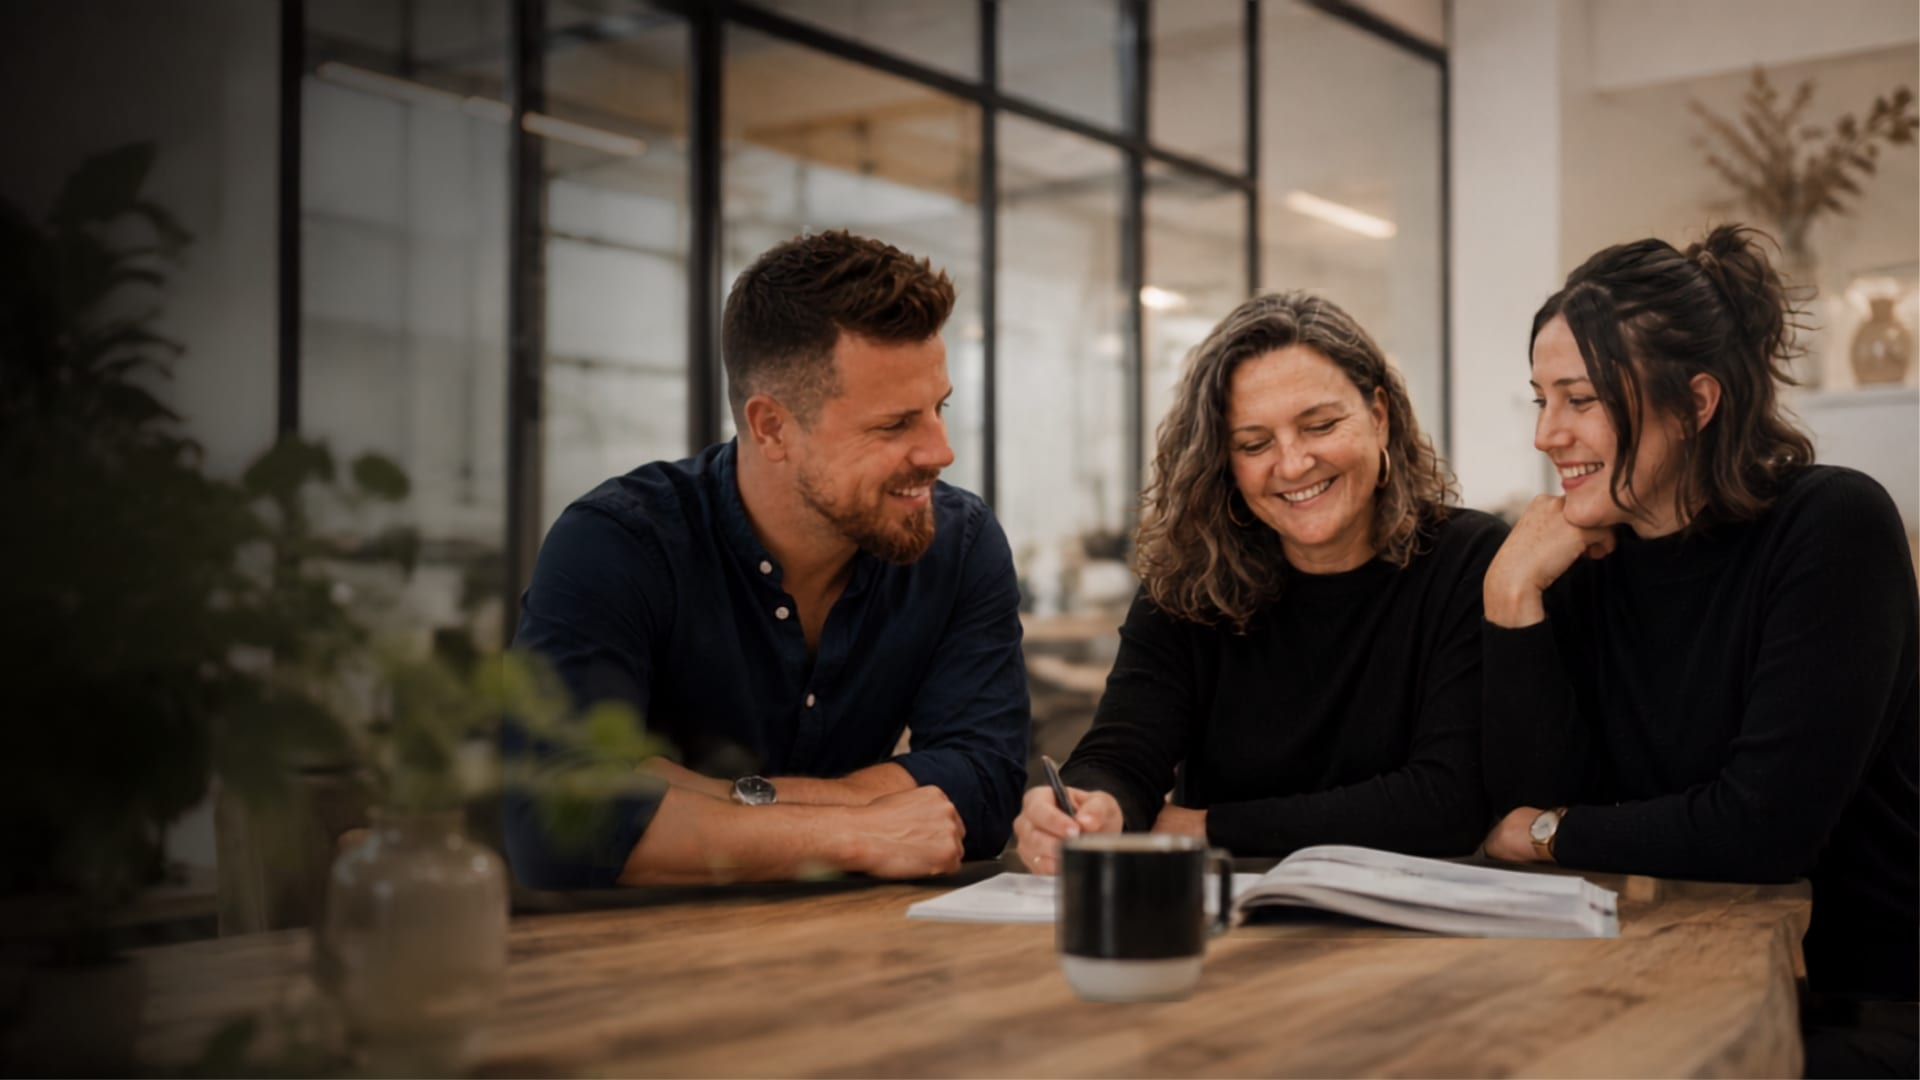
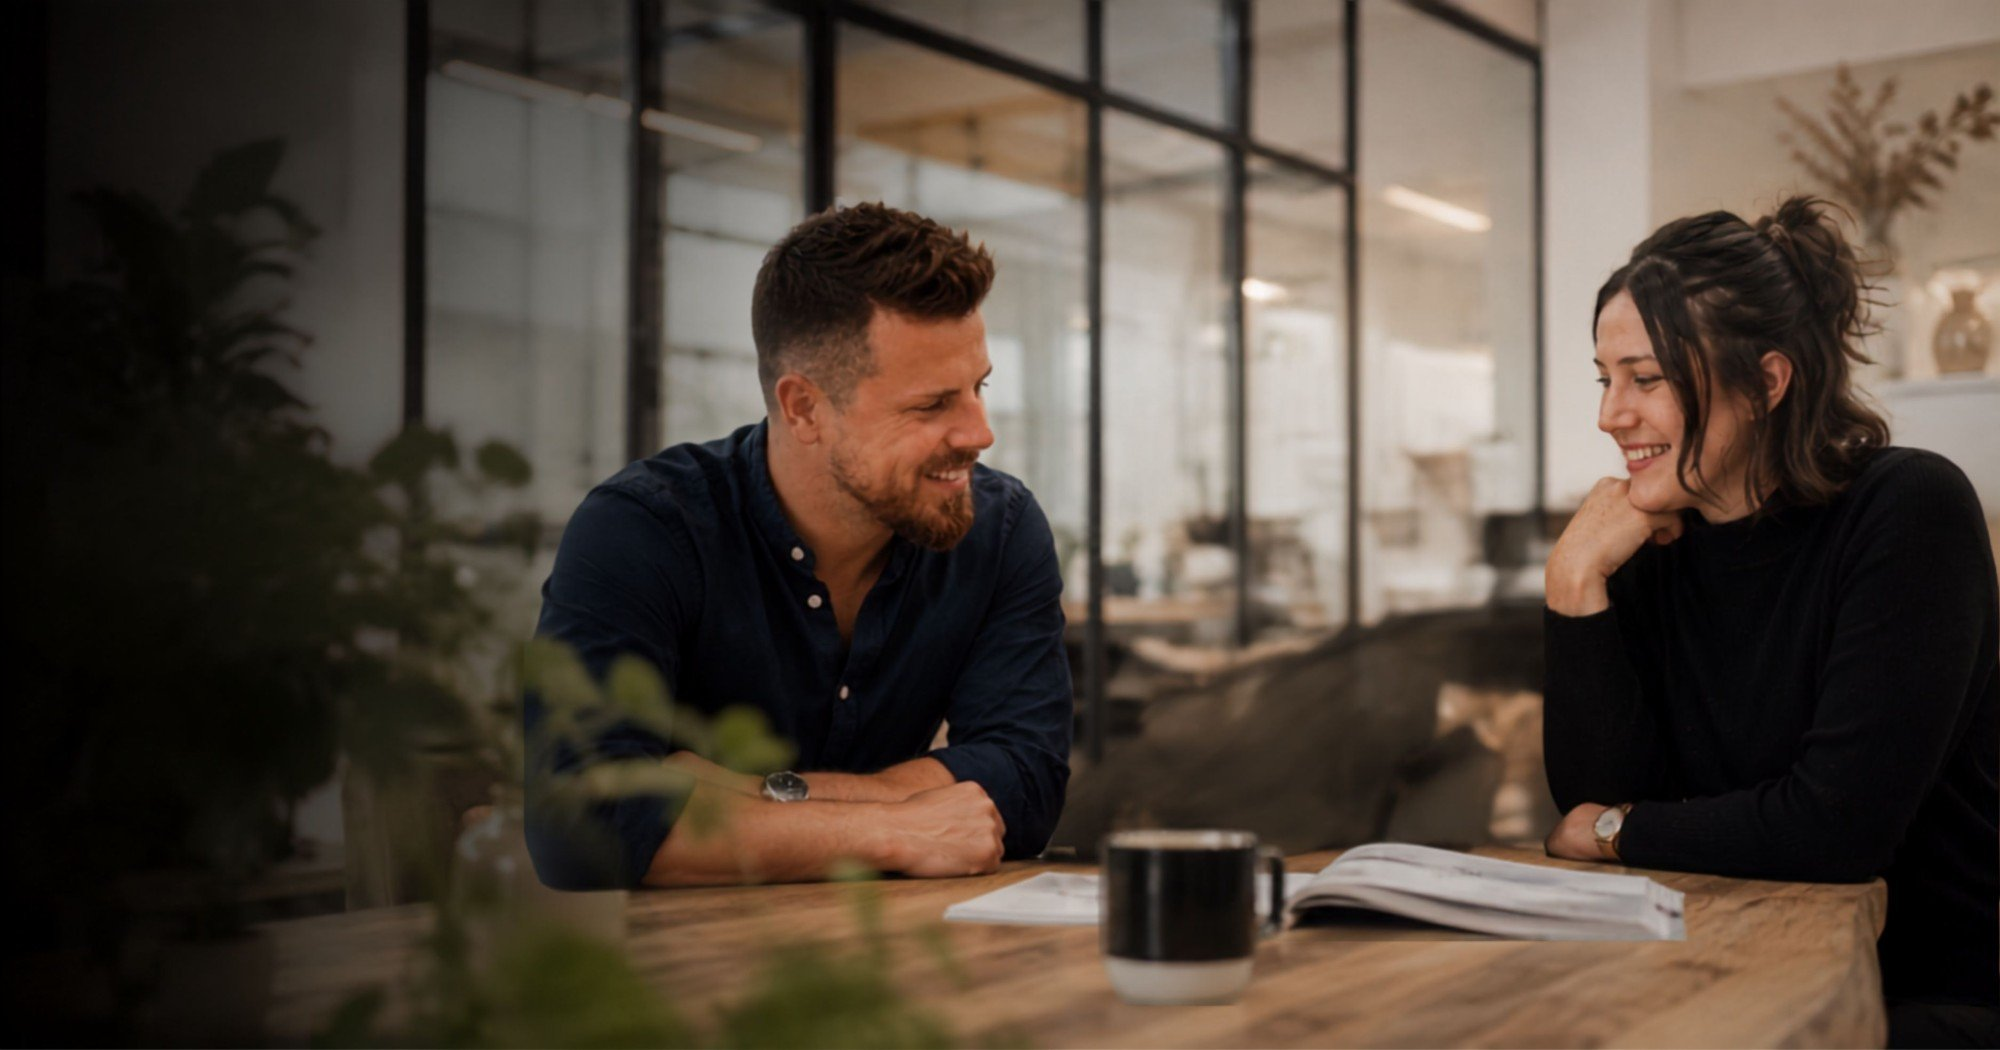
feat(equipo): Sofía deja la web — nueva foto de la home sin ella, fuera de quiénes-somos y landings, sus inmuebles pasan a Ariadna

diff --git a/src/lib/i18n.ts b/src/lib/i18n.ts
@@ -204,7 +204,6 @@ const dict = {
     aboutRoleManager: "Responsable de equipo",
     aboutRoleFounder: "Fundador · Dirección & Marketing",
     aboutDesc1: "Lleva años acompañando a personas en uno de los momentos más importantes de su vida. Se nota en cómo escucha, en cómo gestiona la incertidumbre y en que nunca pierde de vista que detrás de cada operación hay alguien tomando una decisión muy importante.",
-    aboutDesc2: "Sofía tiene una capacidad natural para hacer que la gente se sienta cómoda. Atenta, paciente y muy presente en cada momento del proceso. De las que recuerdan los detalles importantes y están ahí cuando surgen las dudas — que siempre surgen.",
     aboutDesc3: "Fundó The Vila Home con una idea clara: que este trabajo se puede hacer poniendo a las personas primero. Hoy lleva la estrategia y el marketing de la agencia con la misma convicción de siempre — que cuando el proceso está bien planteado y bien acompañado, todo lo demás llega.",
     aboutDesc4: "Toni es el más joven del equipo, pero cuenta con una amplia experiencia en el sector. Ambicioso, implicado y con las ideas claras, afronta cada operación con criterio y seguridad. Le gusta entender cada situación, hablar claro y estar presente durante todo el proceso, porque sabe que la confianza se gana con hechos y un trabajo bien hecho.",
     aboutCTATitle: "¿Hablamos?",
@@ -510,7 +509,6 @@ const dict = {
     aboutRoleManager: "Responsable d'equip",
     aboutRoleFounder: "Fundador · Direcció & Màrqueting",
     aboutDesc1: "L'Ariadna és proximitat, calma i experiència. De les persones que escolten abans de parlar i que entenen que comprar o vendre un habitatge no hauria de sentir-se com una carrera d'obstacles. Li agrada acompanyar sense pressionar, explicar les coses clares i fer que cada client se senti segur durant el procés. Creu que una operació immobiliària es construeix amb honestedat, criteri i confiança.",
-    aboutDesc2: "La Sofía transmet calma, proximitat i aquella dolçor que fa que tot se senti una mica més fàcil. És de les persones que escolten amb atenció, acompanyen sense presses i entenen que comprar o vendre un habitatge també pot venir acompanyat de dubtes, nervis i emocions. Li agrada ser present, explicar les coses amb claredat i fer que qui té davant se senti còmode, acompanyat i en confiança durant tot el procés.",
     aboutDesc3: "En Xavi entén el sector immobiliari des d'una idea senzilla: fer les coses bé i dir les coses clares. Està darrere de l'estratègia, el màrqueting i gran part de la presentació de cada habitatge, convençut que vendre una casa no hauria de basar-se en promeses inflades, sinó en criteri, visibilitat i feina real. Perfeccionista amb els detalls i apassionat per com es presenta un immoble, creu que una bona experiència immobiliària comença molt abans d'una visita: en la confiança, l'honestedat i sentir-se ben acompanyat.",
     aboutDesc4: "En Toni és el més jove de l'equip, però compta amb una àmplia experiència en el sector. Ambiciós, implicat i amb les idees clares, afronta cada operació amb criteri i seguretat. Li agrada entendre cada situació, parlar clar i estar present durant tot el procés, perquè sap que la confiança es guanya amb fets i una feina ben feta.",
     aboutCTATitle: "Parlem?",
@@ -813,7 +811,6 @@ const dict = {
     aboutRoleManager: "Team Lead",
     aboutRoleFounder: "Founder · Management & Marketing",
     aboutDesc1: "Ariadna is warmth, calm, and experience. The kind of person who listens before speaking and understands that buying or selling a home shouldn't feel like an obstacle course. She likes to guide without pressure, explain things clearly, and make every client feel safe throughout the process. She believes a real estate transaction is built on honesty, judgement, and trust.",
-    aboutDesc2: "Sofía conveys calm, warmth, and a gentleness that makes everything feel a little easier. She's the kind of person who listens attentively, accompanies without rushing, and understands that buying or selling a home can also come with doubts, nerves, and emotions. She likes to be present, explain things clearly, and make the person in front of her feel comfortable, accompanied, and trusted throughout the whole process.",
     aboutDesc3: "Xavi understands the real estate sector from a simple idea: do things well and say things clearly. He's behind the strategy, the marketing, and much of the presentation of every property, convinced that selling a house shouldn't be based on inflated promises, but on judgement, visibility, and real work. A perfectionist with details and passionate about how a property is presented, he believes a good real estate experience starts long before a viewing: in trust, honesty, and feeling well accompanied.",
     aboutDesc4: "Toni is the youngest member of the team, but he brings broad experience in the sector. Ambitious, committed, and clear-headed, he approaches every transaction with judgement and confidence. He likes to understand each situation, speak plainly, and stay present throughout the process, because he knows trust is earned through actions and work well done.",
     aboutCTATitle: "Shall we talk?",
@@ -1116,7 +1113,6 @@ const dict = {
     aboutRoleManager: "Responsable d'équipe",
     aboutRoleFounder: "Fondateur · Direction & Marketing",
     aboutDesc1: "Ariadna est proximité, calme et expérience. Elle fait partie des personnes qui écoutent avant de parler et qui comprennent qu'acheter ou vendre un logement ne devrait pas ressembler à un parcours du combattant. Elle aime accompagner sans pression, expliquer les choses clairement et faire en sorte que chaque client se sente en sécurité tout au long du processus. Elle croit qu'une transaction immobilière se construit sur l'honnêteté, le discernement et la confiance.",
-    aboutDesc2: "Sofía transmet calme, proximité et cette douceur qui rend tout un peu plus facile. Elle fait partie des personnes qui écoutent attentivement, accompagnent sans se précipiter et comprennent qu'acheter ou vendre un logement peut aussi s'accompagner de doutes, de stress et d'émotions. Elle aime être présente, expliquer les choses clairement et faire en sorte que la personne en face d'elle se sente à l'aise, accompagnée et en confiance tout au long du processus.",
     aboutDesc3: "Xavi comprend le secteur immobilier depuis une idée simple : bien faire les choses et les dire clairement. Il est derrière la stratégie, le marketing et une grande partie de la présentation de chaque bien, convaincu que vendre une maison ne devrait pas reposer sur des promesses exagérées, mais sur le discernement, la visibilité et le travail réel. Perfectionniste dans les détails et passionné par la façon dont un bien est présenté, il croit qu'une bonne expérience immobilière commence bien avant une visite : dans la confiance, l'honnêteté et le sentiment d'être bien accompagné.",
     aboutDesc4: "Toni est le plus jeune de l'équipe, mais il possède une large expérience du secteur. Ambitieux, impliqué et avec les idées claires, il aborde chaque transaction avec discernement et assurance. Il aime comprendre chaque situation, parler franchement et rester présent tout au long du processus, car il sait que la confiance se gagne par des actes et un travail bien fait.",
     aboutCTATitle: "On en parle ?",

diff --git a/src/lib/vender-content.ts b/src/lib/vender-content.ts
@@ -89,7 +89,7 @@ export interface VenderCopy {
     eyebrow: string;
     title: string;
     sub: string;
-    roles: string[]; // Ariadna, Sofía, Xavier
+    roles: string[]; // Ariadna, Toni, Xavier
     rolesShort: string[]; // etiqueta corta bajo el retrato del hero
     moreText: string;
     moreLink: string;
@@ -291,8 +291,8 @@ const es: VenderCopy = {
     eyebrow: "Quiénes lo hacemos",
     title: "Personas, no un número de expediente",
     sub: "Cuando vendes con nosotros no hablas con un call center. Somos tres, nos conoces por tu nombre y respondemos por tu casa de principio a fin.",
-    roles: ["Responsable de equipo · Asesora inmobiliaria", "Asesora inmobiliaria", "Fundador · Dirección & Marketing"],
-    rolesShort: ["Responsable de equipo", "Asesora inmobiliaria", "Fundador"],
+    roles: ["Responsable de equipo · Asesora inmobiliaria", "Asesor inmobiliario", "Fundador · Dirección & Marketing"],
+    rolesShort: ["Responsable de equipo", "Asesor inmobiliario", "Fundador"],
     moreText: "¿Quieres saber más de nosotros?",
     moreLink: "Conoce al equipo",
   },
@@ -502,8 +502,8 @@ const ca: VenderCopy = {
     eyebrow: "Qui ho fem",
     title: "Persones, no un número d'expedient",
     sub: "Quan vens amb nosaltres no parles amb un call center. Som tres, ens coneixes pel teu nom i responem per casa teva de principi a fi.",
-    roles: ["Responsable d'equip · Assessora immobiliària", "Assessora immobiliària", "Fundador · Direcció & Màrqueting"],
-    rolesShort: ["Responsable d'equip", "Assessora immobiliària", "Fundador"],
+    roles: ["Responsable d'equip · Assessora immobiliària", "Assessor immobiliari", "Fundador · Direcció & Màrqueting"],
+    rolesShort: ["Responsable d'equip", "Assessor immobiliari", "Fundador"],
     moreText: "Vols saber-ne més, de nosaltres?",
     moreLink: "Coneix l'equip",
   },
@@ -924,8 +924,8 @@ const fr: VenderCopy = {
     eyebrow: "Qui le fait",
     title: "Des personnes, pas un numéro de dossier",
     sub: "Quand vous vendez avec nous, vous ne parlez pas à un call center. Nous sommes trois, nous vous connaissons par votre nom et nous répondons de votre maison du début à la fin.",
-    roles: ["Responsable d'équipe · Conseillère immobilière", "Conseillère immobilière", "Fondateur · Direction & Marketing"],
-    rolesShort: ["Responsable d'équipe", "Conseillère immobilière", "Fondateur"],
+    roles: ["Responsable d'équipe · Conseillère immobilière", "Conseiller immobilier", "Fondateur · Direction & Marketing"],
+    rolesShort: ["Responsable d'équipe", "Conseiller immobilier", "Fondateur"],
     moreText: "Envie d'en savoir plus sur nous ?",
     moreLink: "Rencontrer l'équipe",
   },

diff --git a/src/lib/vende-content.ts b/src/lib/vende-content.ts
@@ -156,7 +156,7 @@ const es: VendeCopy = {
   team: {
     eyebrow: "Quiénes somos",
     title: "Somos tres. Nos conocerás por el nombre.",
-    sub: "Cuando llames no te atenderá un departamento: te atenderemos Ariadna, Sofía o Xavier. Los mismos que valorarán tu casa, la enseñarán y estarán contigo el día de la firma.",
+    sub: "Cuando llames no te atenderá un departamento: te atenderemos Ariadna, Toni o Xavier. Los mismos que valorarán tu casa, la enseñarán y estarán contigo el día de la firma.",
   },
   social: {
     eyebrow: "Lo que dicen los propietarios",
@@ -250,7 +250,7 @@ const ca: VendeCopy = {
   team: {
     eyebrow: "Qui som",
     title: "Som tres. Ens coneixeràs pel nom.",
-    sub: "Quan truquis no t'atendrà un departament: t'atendrem l'Ariadna, la Sofía o el Xavier. Els mateixos que valoraran casa teva, l'ensenyaran i seran amb tu el dia de la signatura.",
+    sub: "Quan truquis no t'atendrà un departament: t'atendrem l'Ariadna, el Toni o el Xavier. Els mateixos que valoraran casa teva, l'ensenyaran i seran amb tu el dia de la signatura.",
   },
   social: {
     eyebrow: "El que diuen els propietaris",
@@ -344,7 +344,7 @@ const en: VendeCopy = {
   team: {
     eyebrow: "Who we are",
     title: "We are three. You'll know us by name.",
-    sub: "When you call, you won't reach a department: you'll reach Ariadna, Sofía or Xavier. The same people who will value your home, show it and be with you on signing day.",
+    sub: "When you call, you won't reach a department: you'll reach Ariadna, Toni or Xavier. The same people who will value your home, show it and be with you on signing day.",
   },
   social: {
     eyebrow: "What owners say",
@@ -438,7 +438,7 @@ const fr: VendeCopy = {
   team: {
     eyebrow: "Qui sommes-nous",
     title: "Nous sommes trois. Vous nous connaîtrez par nos prénoms.",
-    sub: "Quand vous appellerez, vous ne tomberez pas sur un service : vous parlerez à Ariadna, Sofía ou Xavier. Les mêmes qui estimeront votre maison, la feront visiter et seront à vos côtés le jour de la signature.",
+    sub: "Quand vous appellerez, vous ne tomberez pas sur un service : vous parlerez à Ariadna, Toni ou Xavier. Les mêmes qui estimeront votre maison, la feront visiter et seront à vos côtés le jour de la signature.",
   },
   social: {
     eyebrow: "Ce que disent les propriétaires",

diff --git a/src/app/quienes-somos/page.tsx b/src/app/quienes-somos/page.tsx
@@ -5,12 +5,12 @@ import QuienesSomosContent from "@/components/pages/QuienesSomosContent";
 export const metadata: Metadata = {
   title: "Quiénes somos",
   description:
-    "Conoce al equipo de The Vila Home: Ariadna Garcia, Sofía Pascual y Xavier Capdevila. Tres profesionales que trabajan con honestidad, criterio y presencia real en cada operación inmobiliaria en Vilanova i la Geltrú.",
+    "Conoce al equipo de The Vila Home: Ariadna Garcia, Toni Aguilar y Xavier Capdevila. Tres profesionales que trabajan con honestidad, criterio y presencia real en cada operación inmobiliaria en Vilanova i la Geltrú.",
   alternates: { canonical: "https://www.thevilahome.com/quienes-somos" },
   openGraph: {
     type: "website",
     title: "Quiénes somos — The Vila Home",
-    description: "El equipo humano detrás de The Vila Home. Ariadna, Sofía y Xavi: cercanos, honestos y sin corporativismo.",
+    description: "El equipo humano detrás de The Vila Home. Ariadna, Toni y Xavi: cercanos, honestos y sin corporativismo.",
     url: "https://www.thevilahome.com/quienes-somos",
     siteName: "The Vila Home",
     locale: "es_ES",
@@ -19,7 +19,7 @@ export const metadata: Metadata = {
   twitter: {
     card: "summary_large_image",
     title: "Quiénes somos — The Vila Home",
-    description: "El equipo humano detrás de The Vila Home. Ariadna, Sofía y Xavi.",
+    description: "El equipo humano detrás de The Vila Home. Ariadna, Toni y Xavi.",
     images: ["https://www.thevilahome.com/og-image.jpg"],
   },
 };
@@ -40,9 +40,8 @@ const schemaPeople = [
   {
     "@context": "https://schema.org",
     "@type": "Person",
-    name: "Sofía Pascual",
-    jobTitle: "Asesora inmobiliaria",
-    email: "s.pascual@thevilahome.com",
+    name: "Toni Aguilar",
+    jobTitle: "Asesor inmobiliario",
     url: `${BASE_URL}/quienes-somos`,
     worksFor: { "@type": "Organization", "@id": `${BASE_URL}/#organization`, name: "The Vila Home" },
     knowsAbout: ["Compraventa inmobiliaria", "Vilanova i la Geltrú", "Garraf"],

diff --git a/src/lib/agents.ts b/src/lib/agents.ts
@@ -24,12 +24,11 @@ export const AGENTS: Record<string, AgentInfo> = {
     photo:  "/images/agents/xavier.jpg",
     mobile: "34638359612",
   },
-  "s.pascual@thevilahome.com": {
-    name:   "Sofía Pascual",
-    photo:  "/images/agents/sofia.jpg",
-    mobile: "34679876331",
-  },
 };
+
+// Sofía Pascual ya no está (sep 2026): sus inmuebles pasan a Ariadna. Si el
+// feed aún trae alguno a su nombre, se atiende como Ariadna.
+AGENTS["s.pascual@thevilahome.com"] = AGENTS["a.garcia@thevilahome.com"];
 
 /** Fallback when the property has no agent or an unrecognised email. */
 export const DEFAULT_AGENT: AgentInfo = {
@@ -46,7 +45,7 @@ export function getAgentInfo(email?: string): AgentInfo & { contactEmail: string
   const agent = email ? (AGENTS[email] ?? null) : null;
   return {
     ...(agent ?? DEFAULT_AGENT),
-    contactEmail: agent ? email! : "info@thevilahome.com",
+    contactEmail: agent ? (email === "s.pascual@thevilahome.com" ? "a.garcia@thevilahome.com" : email!) : "info@thevilahome.com",
   };
 }
 

diff --git a/src/components/vender/VenderContent.tsx b/src/components/vender/VenderContent.tsx
@@ -22,8 +22,8 @@ import type { GoogleReview } from "@/lib/googlePlaces";
 
 const { googleReviews } = siteConfig;
 
-const TEAM_PHOTOS = ["/images/agents/ariadna.jpg", "/images/agents/sofia.jpg", "/images/agents/xavier.jpg"];
-const TEAM_NAMES = ["Ariadna Garcia", "Sofía Pascual", "Xavier Capdevila"];
+const TEAM_PHOTOS = ["/images/agents/ariadna.jpg", "/images/agents/toni.jpg", "/images/agents/xavier.jpg"];
+const TEAM_NAMES = ["Ariadna Garcia", "Toni Aguilar", "Xavier Capdevila"];
 
 const INCLUDE_ICONS = [
   <svg key="0" viewBox="0 0 24 24" fill="none" stroke="currentColor" strokeWidth="1.5" strokeLinecap="round" strokeLinejoin="round" className="w-6 h-6"><path d="M7.5 3.75h6.69a2 2 0 0 1 1.42.59l4.55 4.55a2 2 0 0 1 0 2.82l-6.69 6.69a2 2 0 0 1-2.82 0l-4.55-4.55a2 2 0 0 1-.59-1.42V5.75a2 2 0 0 1 2-2Z" /><circle cx="9.5" cy="7.5" r="1.1" /></svg>,

diff --git a/src/components/pages/QuienesSomosContent.tsx b/src/components/pages/QuienesSomosContent.tsx
@@ -14,12 +14,6 @@ const agents = [
     photo: "/images/agents/ariadna.jpg" as string | null,
   },
   {
-    name: "Sofía Pascual",
-    descKey: "aboutDesc2" as const,
-    roleKey: "aboutRoleAdvisor" as const,
-    photo: "/images/agents/sofia.jpg",
-  },
-  {
     name: "Toni Aguilar",
     descKey: "aboutDesc4" as const,
     roleKey: "aboutRoleAdvisorM" as const,
@@ -85,7 +79,7 @@ export default function QuienesSomosContent() {
             </span>
           </div>
 
-          <div className="grid grid-cols-1 md:grid-cols-2 lg:grid-cols-4 gap-6 lg:gap-8">
+          <div className="grid grid-cols-1 md:grid-cols-2 lg:grid-cols-3 gap-6 lg:gap-8">
             {agents.map((agent) => (
               <div key={agent.name} className="group">
                 <div className="relative aspect-[3/4] overflow-hidden mb-4 bg-[#111]">

diff --git a/src/components/vende/VendeContent.tsx b/src/components/vende/VendeContent.tsx
@@ -21,8 +21,8 @@ import type { GoogleReview } from "@/lib/googlePlaces";
 
 const { googleReviews } = siteConfig;
 
-const TEAM_PHOTOS = ["/images/agents/ariadna.jpg", "/images/agents/sofia.jpg", "/images/agents/xavier.jpg"];
-const TEAM_NAMES = ["Ariadna Garcia", "Sofía Pascual", "Xavier Capdevila"];
+const TEAM_PHOTOS = ["/images/agents/ariadna.jpg", "/images/agents/toni.jpg", "/images/agents/xavier.jpg"];
+const TEAM_NAMES = ["Ariadna Garcia", "Toni Aguilar", "Xavier Capdevila"];
 
 /* Logos reales de los canales (public/images/portales). Se pintan en tinta
    (filter brightness(0) + opacidad) para no romper la paleta monocroma.
